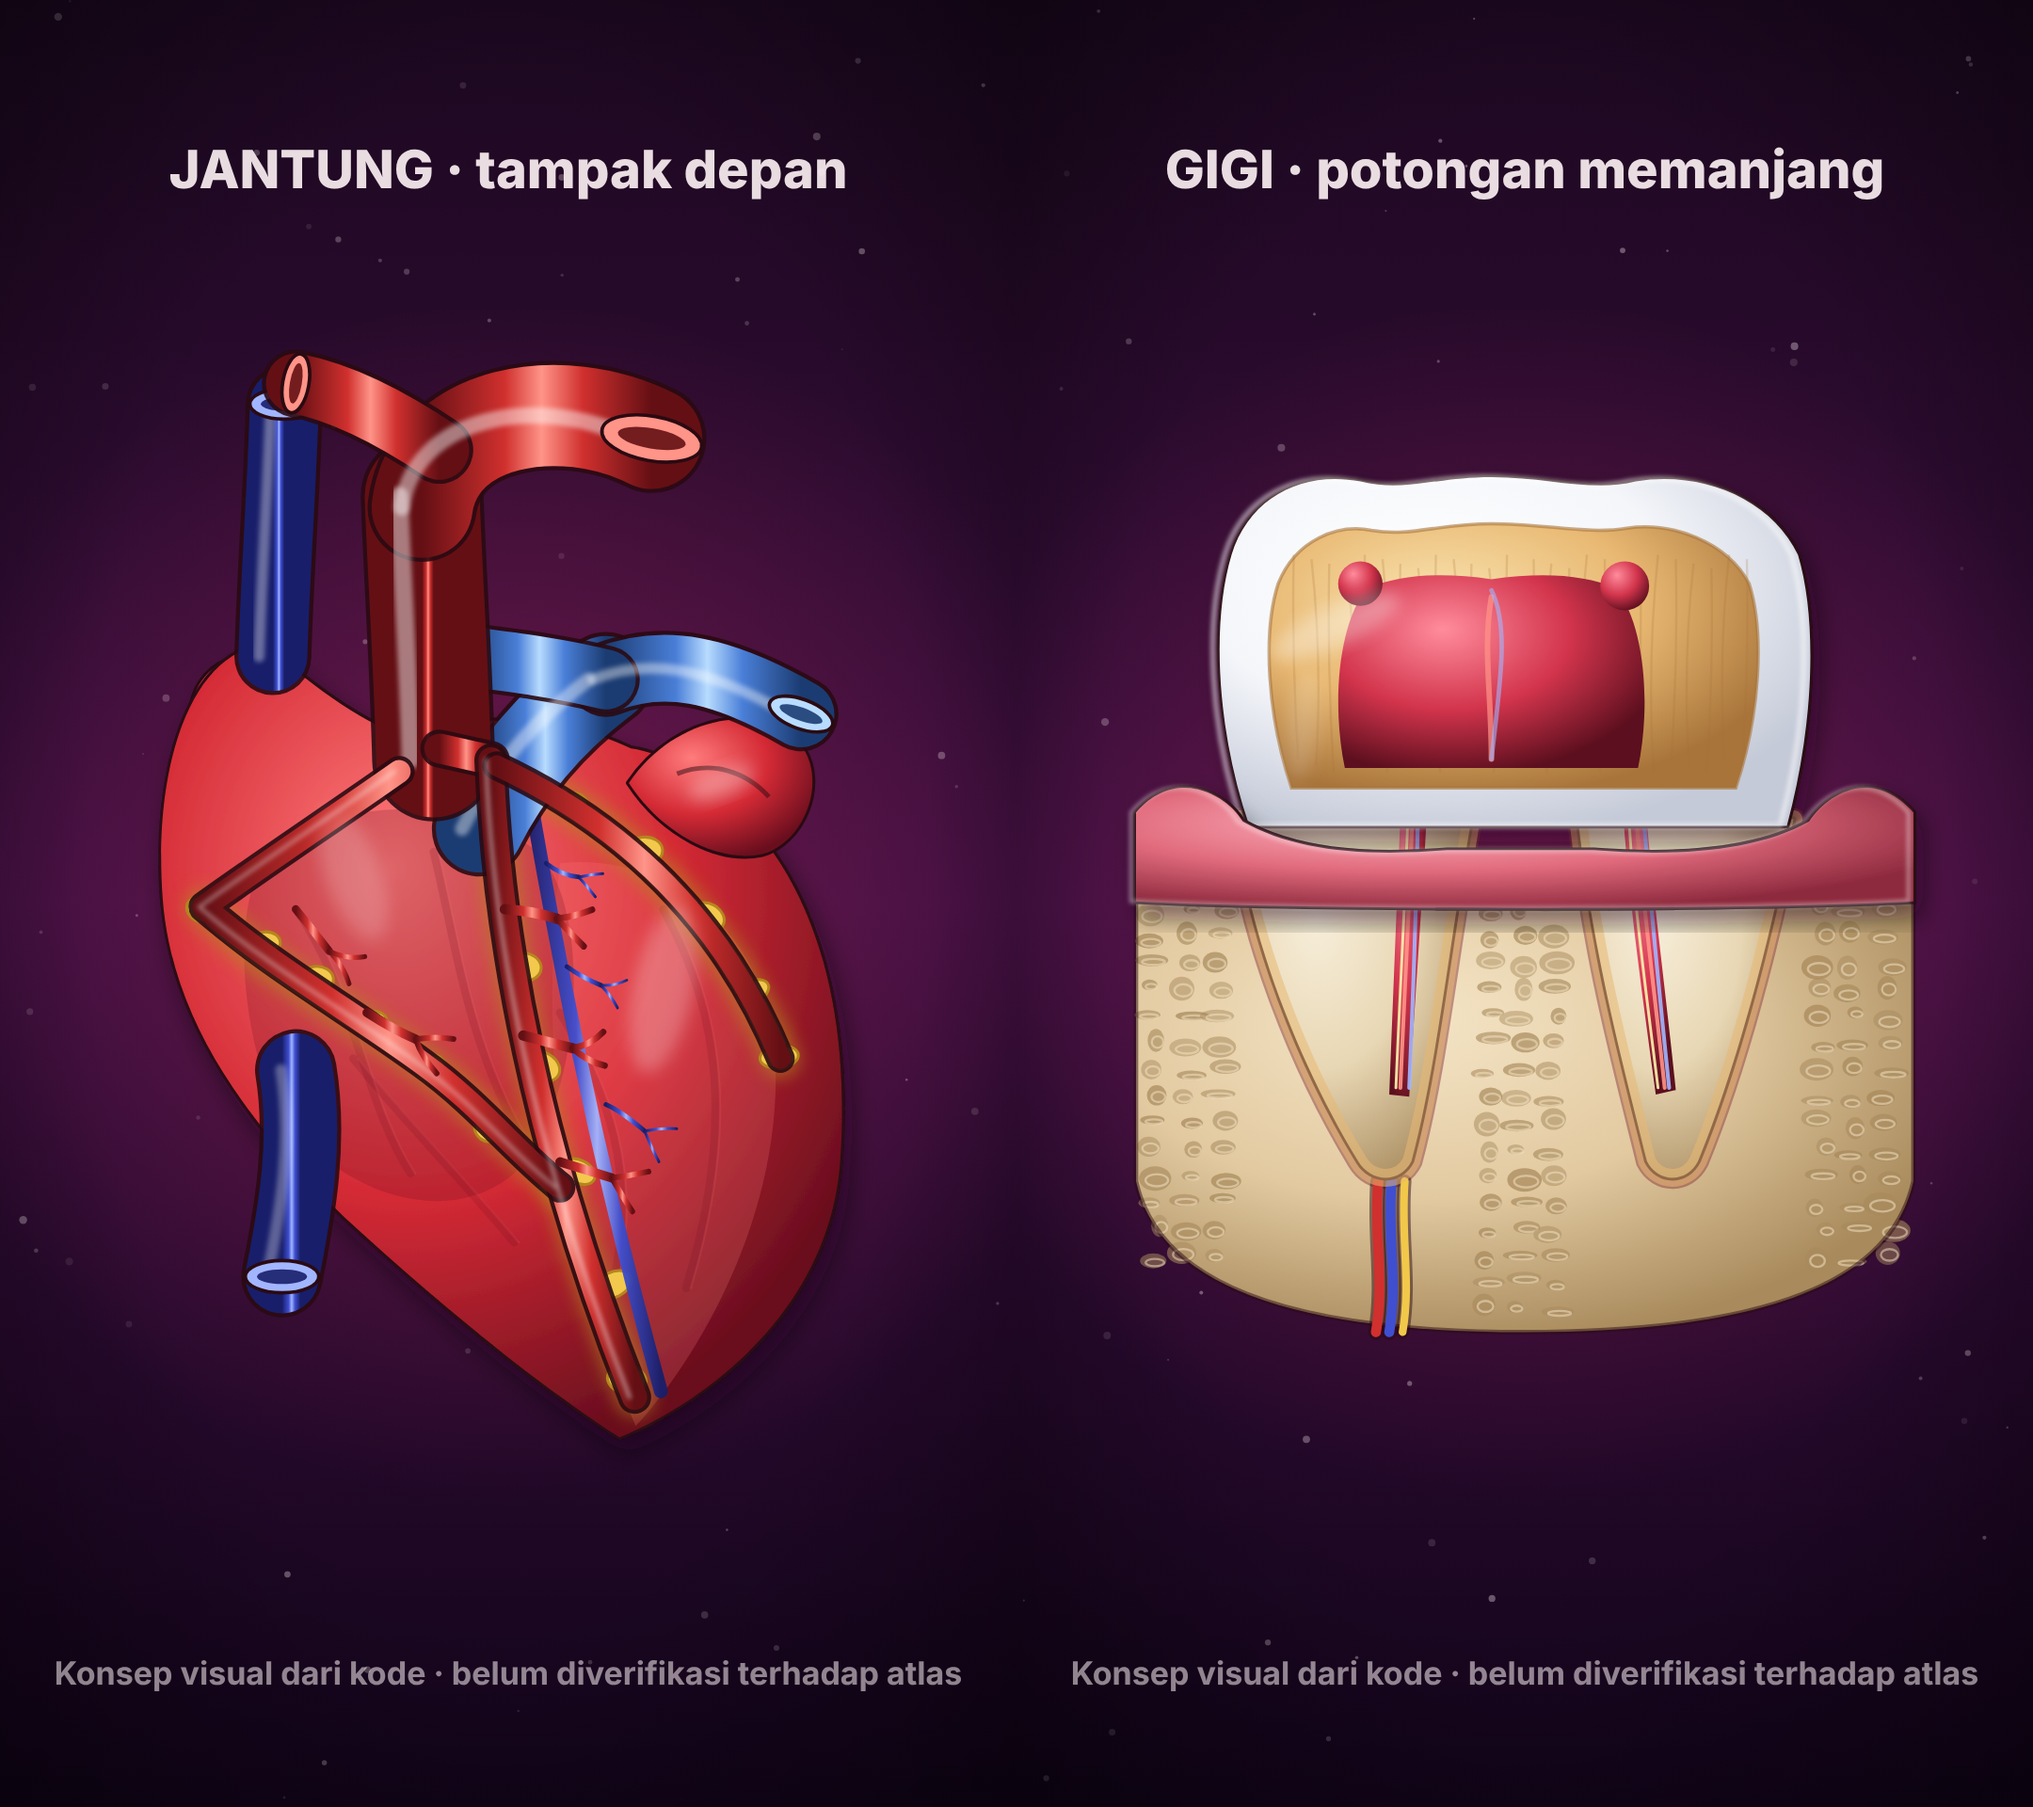
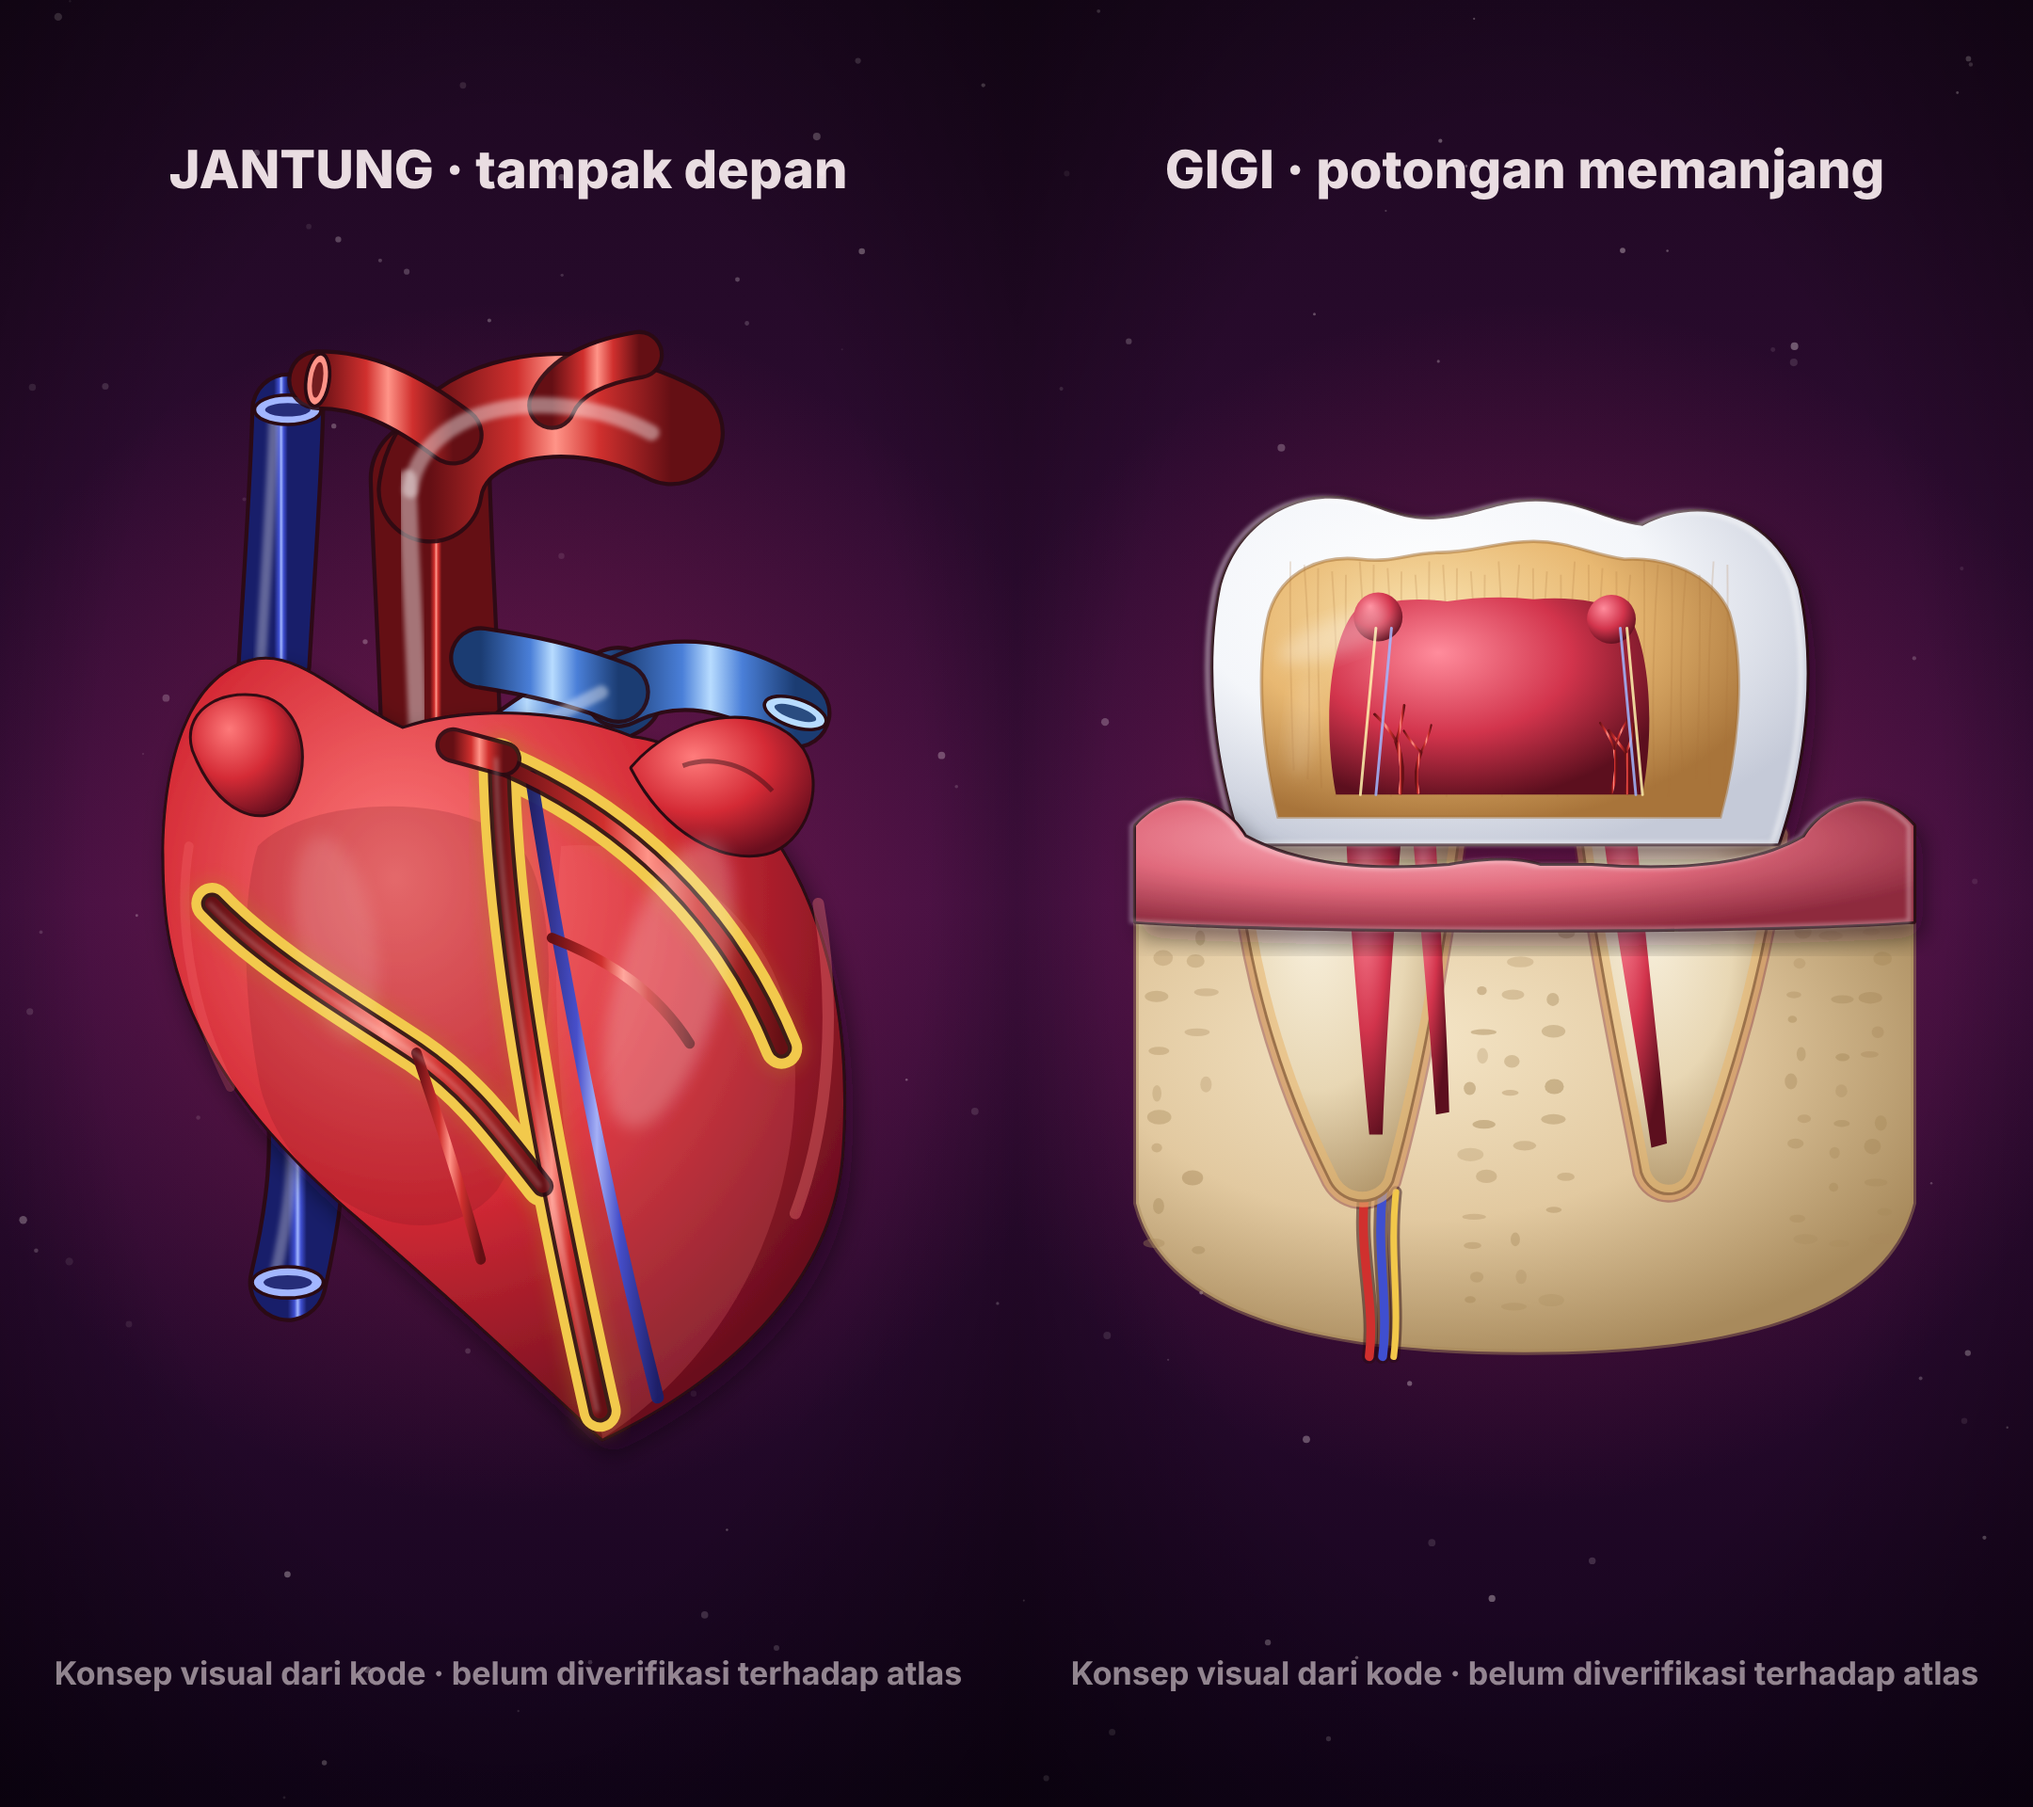
Revisi visual anatomi (v3): jantung dengan siluet membulat, lemak terlihat di alur, koroner sesuai jalur sumber, gigi molar dua akar; README dengan riwayat revisi dan sumber yang diperiksa
Claude-Session: https://claude.ai/code/session_01MKx1UyJYZiX8AAtpyrtK5D

Changed region(s): [[0.5583, 0.25, 0.9616, 0.75], [0.062, 0.1875, 0.4343, 0.8125], [0.8995, 0.5625, 0.9306, 0.5938]]

diff --git a/brand/anatomi-visual/README.md b/brand/anatomi-visual/README.md
@@ -23,14 +23,25 @@ Warna tidak dipaksa sama antarorgan. Setiap organ punya `base`, `light`, `dark` 
 - Alur lemak dan cabang koroner: muncul bertahap lewat `stroke-dasharray`.
 - Pulpa dan saluran akar: kedalaman mengikuti kamera zoom.
 
+## Riwayat revisi
+- v1: sistem gaya awal, jantung dan gigi dasar.
+- v2: latar ungu-magenta, kilau, gradien tabung, gigi dengan dua akar, koroner dan lemak diatur ulang.
+- v3 (saat ini): jantung dengan siluet membulat, lemak kuning di alur (dibuat terlihat di bawah koroner), koroner kiri (LM -> LAD + sirkumfleks) dan kanan (RCA) sesuai sumber di bawah, cabang acak dihapus; gigi molar bawah dua akar dengan dua saluran di akar mesial dan satu di distal, tulang berlubang tidak seragam, gusi dengan tepi bebas.
+
+## Sumber anatomi yang diperiksa
+Hanya ringkasan hasil pencarian web (bukan halaman lengkap yang saya buka):
+- Jalur arteri koroner: asal LM dari sinus aorta kiri, bercabang ke LAD dan sirkumfleks; RCA dari sinus aorta kanan. Ringkasan dari Frontiers in Cardiovascular Medicine (https://www.frontiersin.org/articles/10.3389/fcvm.2021.649855/full), Radiology Assistant (https://radiologyassistant.nl/cardiovascular/anatomy/coronary-anatomy-and-anomalies), dan StatPearls (https://ncbi.nlm.nih.gov/books/NBK482375).
+- Gigi molar bawah: dua akar (mesial dan distal), umumnya tiga saluran utama. Ringkasan dari beberapa tinjauan endodontik (mis. https://pmc.ncbi.nlm.nih.gov/articles/PMC3731107).
+- Wikipedia dan OpenStax tidak bisa diakses dari lingkungan ini (jaringan memblokir en.wikipedia.org; OpenStax tidak muncul di hasil pencarian).
+
 ## Status visual (dibandingkan dengan acuan)
 Acuan yang kamu lampirkan (jantung merah mengilap dengan lemak kuning dan pembuluh bercabang; gigi dengan enamel putih, dentin bergaris, pulpa merah dengan pembuluh, tulang berongga) sudah saya lihat. Hasil saat ini:
 - Mendekati: latar ungu-magenta dengan cahaya, warna merah dan biru, lemak kuning di alur, lubang trabekula di tulang.
-- **Masih jauh:** bentuk jantung masih kaku dan terlalu bersudut (aorta dan batang pulmonalis berbentuk pipa lurus). Kilau dan volume kurang dibanding acuan. Cabang koroner masih tipis dan jarang. Mahkota gigi masih kotak, pulpa masih berbentuk blob tanpa cabang yang jelas.
+- **Masih jauh dari acuan:** pembuluh besar masih tampak seperti tabung terpisah, lemak di alur masih berupa garis, bukan lobulus. Lengkung aorta dan cabangnya belum sehalus acuan. Permukaan jantung kurang berkilau. Gusi dan tulang gigi masih lebih datar daripada acuan. Kilau pada pembuluh masih kaku.
 - Belum ada perbandingan piksel-demi-piksel dengan acuan, karena pengukuran itu butuh gambar acuan dalam berkas.
 
 ## Verifikasi anatomi
-**Belum dilakukan.** Tidak ada sumber medis yang sudah saya buka dan cocokkan. Susunan jantung tampak depan dan potongan molar di sini adalah konsep visual. Jangan dipakai sebagai referensi anatomi sebelum diperiksa dengan atlas atau buku teks.
+**Sebagian.** Jalur koroner dan jumlah akar/saluran dicek terhadap ringkasan sumber di atas, belum terhadap atlas lengkap. Hubungan antarstruktur di jantung (aorta, batang pulmonalis, vena kava) dan detail kamar pulpa belum diverifikasi. Jangan dipakai sebagai referensi anatomi sebelum diperiksa dengan atlas atau buku teks.
 
 ## Keterbatasan
 - Ini penyederhanaan, bukan gambar berskala.
